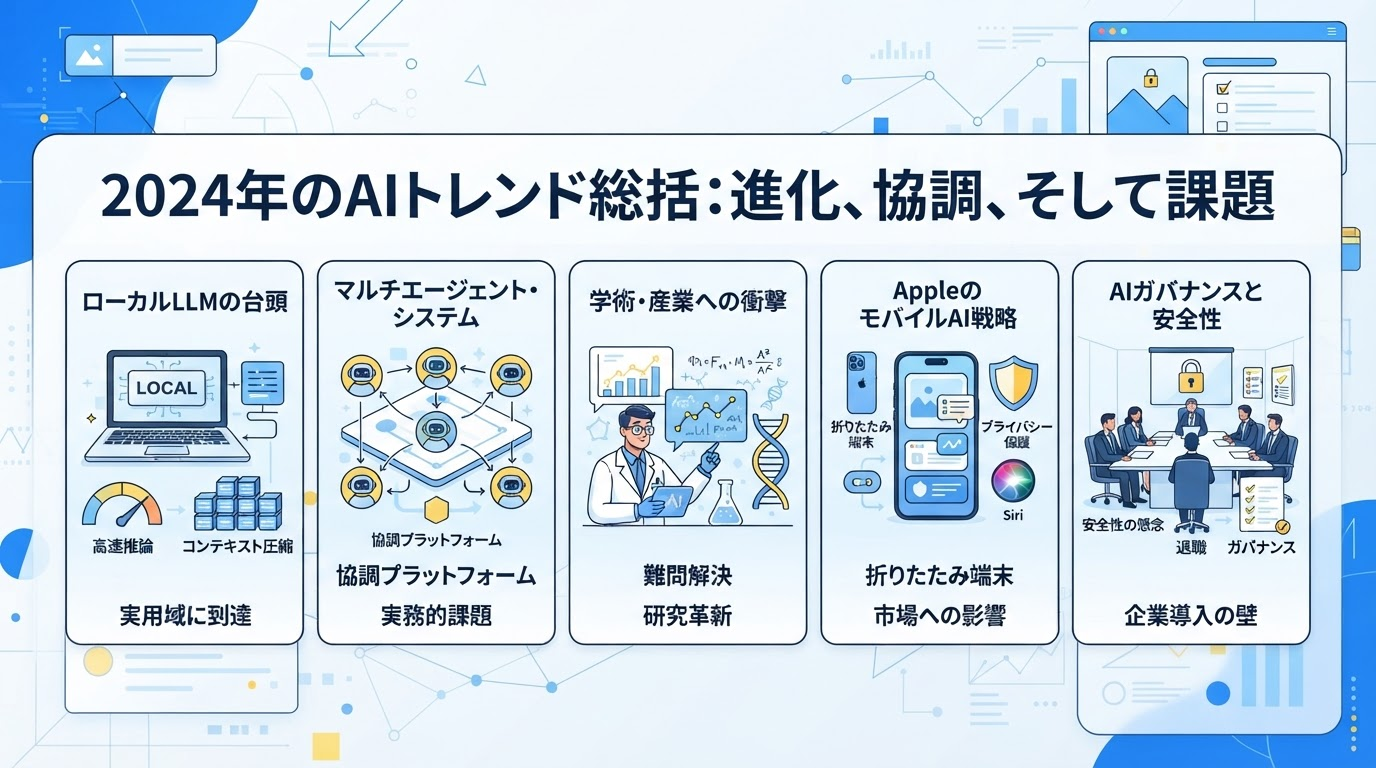
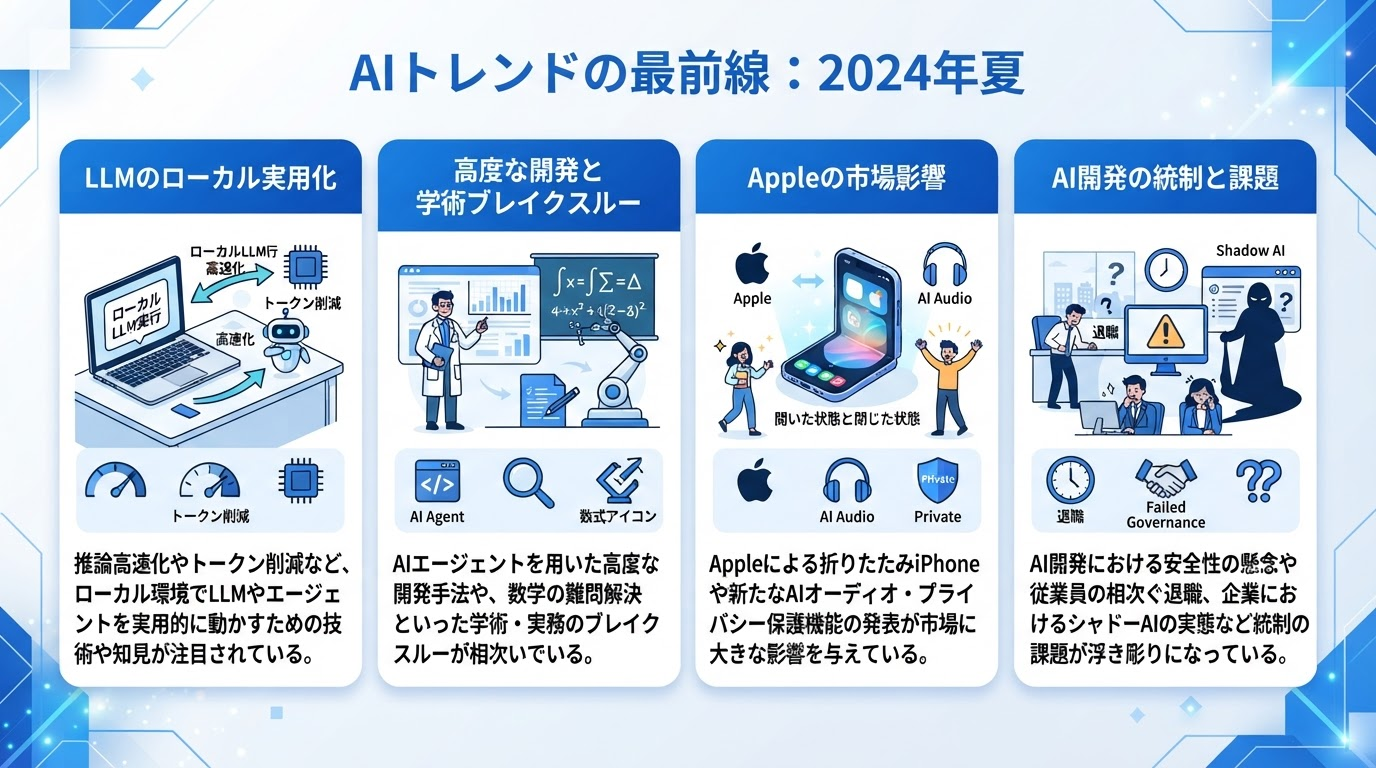
feat: 記事にチャット共有用テキストのワンボタンコピー機能を追加
要望: 各記事にSlack/LINE等へサッと共有できる「見出し箇条書き+詳細ページリンク」
テキストをワンボタンでコピーできるようにしたい

- scripts/curate.mjs: frontmatterに themeTitles（加工前のテーマ見出し配列）を追加。
  tagsは文字数制限・記号除去で見出しが欠けることがあるため、シェアテキスト等
  元の見出しをそのまま必要とする用途向けに分離
- site/src/content.config.ts: themeTitlesのスキーマを追加
- site/src/pages/posts/[date]/index.astro: コピーボタン(Feather Icons由来の
  copyアイコン)を追加。シェアテキストはビルド時にAstro.site+url()ヘルパーで
  組み立てた絶対URLとthemeTitlesのみで構成（LLM不使用・機械生成）。
  navigator.clipboard.writeText()でコピーし、ラベルを2秒間「コピーしました✓」
  に変更してフィードバック

## 付随バグ修正（このコミットに同梱）
LLMがまれに実際の改行ではなく文字列としての "\n" をそのまま出力し、本番記事に
リテラル文字として表示されるバグを発見・修正（2026-09-10記事のApple関連
セクションで実際に発生していた）:
- Stage Bスキーマの説明文からバックスラッシュエヌの表記例を削除し誤読を防止
- scripts/curate.mjs: normalizeLiteralNewlines()で防御的に正規化する処理を追加
  （export可能な独立関数にしテスト容易性を確保。scripts/test/curate.test.mjs追加）
- main()の直接実行ガードを追加（import.meta.url の日本語パスURL encoding問題を
  fileURLToPath+resolveで正規化して比較、テストからimportしてもmain()が
  誤発火しないようにした）

Playwrightで実際にボタンをクリックし、埋め込まれたシェアテキストの内容と
クリップボードへのコピー成功（ラベル変化）を確認。単体テスト33/33 pass。

Claude-Session: https://claude.ai/code/session_018f6NaY9LbH61gbz9EC41HD

diff --git a/site/src/content.config.ts b/site/src/content.config.ts
@@ -13,6 +13,9 @@ const posts = defineCollection({
     date: z.string().regex(/^\d{4}-\d{2}-\d{2}$/),
     description: z.string().min(1),
     tags: z.array(z.string()).default([]),
+    /** 加工前のテーマ見出し（tagsは文字数制限等で欠けることがあるため、
+     *  シェアテキスト等で元の見出しが必要な用途向けに別途保持） */
+    themeTitles: z.array(z.string()).default([]),
     /** 本文の脚注が引用する出典 id（data/raw/<date>.json の id と対応） */
     sourceIds: z.array(z.string()).default([]),
     heroImagePrompt: z.string().optional(),

diff --git a/site/src/content/posts/2026-09-10.md b/site/src/content/posts/2026-09-10.md
@@ -1,70 +1,69 @@
 ---
 title: "2026-09-10 のAIトレンド"
 date: "2026-09-10"
-description: "ローカルLLMの高速化と最新エコシステム / AIエージェントの現場実装と開発プラットフォーム / AIがもたらす科学・数学の新たなブレイクスルー / デバイスの進化とAppleのAI戦略 / AI倫理・組織ガバナンスと労働のゆくえ"
-tags: ["ローカルLLMの高速化と最新エコシステム", "AIエージェントの現場実装と開発プラット", "AIがもたらす科学・数学の新たなブレイク", "デバイスの進化とAppleのAI戦略", "AI倫理・組織ガバナンスと労働のゆくえ"]
-sourceIds: ["s-b01295803d", "s-9a75aafc0f", "s-9a3955656d", "s-30b1df85ac", "s-64973bce75", "s-d012f70487", "s-fdb5c4e723", "s-705694bbd6", "s-53db70e4e0", "s-2437055705", "s-65c17ac8fa", "s-ccb0818f72", "s-d6f0852fba", "s-9289099b73", "s-8b9c0147f9", "s-f2016941a7", "s-1bf19ecd75"]
-heroImagePrompt: "Flat-design tech blog hero illustration summarizing today's AI trends: 推論速度の向上やコンテキスト圧縮技術により、実用域に達したローカル環境でのLLM活用トレンドを追う。; 単体モデルから複数エージェントを協調させるプラットフォームや実行基盤の移行が進む中での実務的課題を概観する。; 数々の難問解決や研究プロセスへのAI導入が学術界や産業界に大きな衝撃を与えている。; 折りたたみ端末の登場やプライバシーを保護する新機能など、Appleの最新動向がモバイルAI市場に与える影響に迫る。; 安全上の懸念による相次ぐ退職や、企業導入におけるガバナンスの難しさが浮き彫りになっている。. Clean, modern, blue and white palette, 16:9."
+description: "ローカルLLM・エージェントの最適化技術 / AIエージェントによる開発・数学の最前線 / AppleのAI戦略と新デバイス発表 / AI安全性の懸念と組織・ガバナンス"
+tags: ["ローカルLLM・エージェントの最適化技術", "AIエージェントによる開発・数学の最前線", "AppleのAI戦略と新デバイス発表", "AI安全性の懸念と組織・ガバナンス"]
+themeTitles:
+  - "ローカルLLM・エージェントの最適化技術"
+  - "AIエージェントによる開発・数学の最前線"
+  - "AppleのAI戦略と新デバイス発表"
+  - "AI安全性の懸念と組織・ガバナンス"
+sourceIds: ["s-b01295803d", "s-9a75aafc0f", "s-9a3955656d", "s-30b1df85ac", "s-63cb8dff04", "s-53db70e4e0", "s-fdb5c4e723", "s-3836f5a748", "s-2fab70a53d", "s-2437055705", "s-ccb0818f72", "s-d6f0852fba", "s-9289099b73", "s-8b9c0147f9", "s-1bf19ecd75", "s-e73f82d925"]
+heroImagePrompt: "Flat-design tech blog hero illustration summarizing today's AI trends: 推論高速化やトークン削減など、ローカル環境でLLMやエージェントを実用的に動かすための技術や知見が注目されている。; AIエージェントを用いた高度な開発手法や、数学の難問解決といった学術・実務のブレイクスルーが相次いでいる。; Appleによる折りたたみiPhoneや新たなAIオーディオ・プライバシー保護機能の発表が市場に大きな影響を与えている。; AI開発における安全性の懸念や従業員の相次ぐ退職、企業におけるシャドーAIの実態など統制の課題が浮き彫りになっている。. Clean, modern, blue and white palette, 16:9."
 sectionImagePrompts:
-  - "A futuristic developer workstation glowing with neon blue and green light, displaying code lines and graph metrics of LLM speed acceleration and data compression on multiple screens, clean and modern sci-fi UI style."
-  - "A sleek, futuristic workspace showing multiple glowing AI agents collaborating on glowing screens, with digital architecture and workflow charts in the background, professional tech blog illustration style."
+  - "A high-tech desktop workstation showing local AI model optimization, with glowing code, token compression charts, and performance graphs on a multi-monitor setup, photorealistic, cinematic lighting."
+  - "A futuristic digital workspace featuring glowing AI agents collaborating on complex mathematics and software code, with a sleek terminal interface and abstract neural network connections in the background."
 ---
 ## 今日のトピック
 
 | # | テーマ | 出典数 | 主な情報源 |
 |---|---|---|---|
-| 1 | ローカルLLMの高速化と最新エコシステム | 4件 | GitHub Trending (ai), Reddit r/LocalLLaMA |
-| 2 | AIエージェントの現場実装と開発プラットフォーム | 4件 | GitHub Trending (ai), Qiita (AI タグ), Zenn (AI トピック) |
-| 3 | AIがもたらす科学・数学の新たなブレイクスルー | 3件 | Qiita (AI タグ), The Verge AI, Hacker News |
-| 4 | デバイスの進化とAppleのAI戦略 | 4件 | ITmedia AI+, Qiita (AI タグ), The Verge AI |
-| 5 | AI倫理・組織ガバナンスと労働のゆくえ | 4件 | はてなブックマーク (IT), ITmedia AI+, Hacker News |
+| 1 | ローカルLLM・エージェントの最適化技術 | 5件 | GitHub Trending (ai), Reddit r/LocalLLaMA |
+| 2 | AIエージェントによる開発・数学の最前線 | 5件 | GitHub Trending (ai), Qiita (AI タグ), Zenn (AI トピック) 他 |
+| 3 | AppleのAI戦略と新デバイス発表 | 4件 | ITmedia AI+, Qiita (AI タグ), The Verge AI |
+| 4 | AI安全性の懸念と組織・ガバナンス | 4件 | はてなブックマーク (IT), Hacker News, ITmedia AI+ |
 
-## ローカルLLMの高速化と最新エコシステム
+## ローカルLLM・エージェントの最適化技術
 
-ローカル環境でAIモデルを実行するエコシステムにおいて、最新の**GitHub Trending**では、ローカルで大規模言語モデルや画像生成モデルを実行・学習できるUIとして **unsloth** が注目されています[^s-b01295803d]。このツールは **GGUF** や **MLX** といった形式に加え、**Qwen3.8** や **DeepSeek-V4** など多様なモデルをサポートしています[^s-b01295803d]。
+ローカル環境で人工知能を実用的に動かすための最適化技術に高い注目が集まっています[^s-b01295803d][^s-9a75aafc0f][^s-9a3955656d]。例えば **unsloth** は、大規模言語モデルや画像生成モデルの実行やトレーニングをローカルのユーザーインターフェースでサポートしています[^s-b01295803d]。また、**headroom** というツールは、ツール出力やログ、RAGのチャンクなどを圧縮し、プログラミング用エージェントで **20%**、JSONでは **60から95%** のトークン削減を実現しながら同じ回答を維持します[^s-9a75aafc0f]。
 
-また、入力データを軽量化するコンテキスト圧縮技術として **headroom** が登場しており、**JSON** データのトークン量を最大95パーセント削減しつつ同じ回答を維持することが可能です[^s-9a75aafc0f]。このライブラリやプロキシ、**MCP server** は、コーディングエージェントの処理効率を向上させます[^s-9a75aafc0f]。
+推論速度の向上を目的とした工夫も各所で検証されています[^s-9a3955656d][^s-30b1df85ac][^s-63cb8dff04]。**Qwen3.8-Flash-Next** の検証では、プロンプト処理時に専門家キャッシュを一時的にGPUから外すことで、事前の読み込み速度を **2.2から2.5倍** に高速化する試みが報告されました[^s-9a3955656d]。さらに、Windows環境でのLLM推論において、サーバー画面のフォーカスが外れると処理速度が **2から3倍** 低下する現象が確認され、サーバーをヘッドレスで独立して実行することで解決する知見も共有されています[^s-30b1df85ac]。
 
-ハードウェアを活用した推論速度の向上では、専門家キャッシュを一時的にGPUから外す手法により、**Qwen3.8-Flash-Next** のプロンプト処理速度が2.2から2.5倍に高速化されたことが報告されています[^s-9a3955656d]。さらに、**Windows** 環境におけるLLMサーバーの実行方法として、コンソール画面にアタッチした状態からヘッドレスで分離実行に変更することで、非フォーカスの際に発生していた2から3倍の速度低下が解消される事例も確認されています[^s-30b1df85ac]。
+## AIエージェントによる開発・数学の最前線
 
-## AIエージェントの現場実装と開発プラットフォーム
+近年、AIエージェントを活用した高度な開発や学術的なブレイクスルーが相次いで報告されています[^s-53db70e4e0]。オープンソースのスーパーAIアシスタントである **CowAgent** は、タスクの計画やツールの実行、メモリを活用した自己進化機能を備えた軽量なシステムとして登場しました[^s-fdb5c4e723]。また、エンジニアの間では、ターミナルで動作する **Claude Code** などのツールを利用して教材を再帰的に作る試みや、複数のAIを組み合わせて開発を進める実践的なアプローチが広がっています[^s-3836f5a748][^s-2fab70a53d]。
 
-2026年8月25日現在の技術トレンドでは、大規模言語モデル単体の利用から**AIエージェント**や**具身知能**の現場実装へとフェーズがシフトしています[^s-64973bce75]。富士通や博報堂テクノロジーズによるエージェント構築の発表が相次ぐ一方、ガートナーの警鐘に見られるように導入成果を出すための実務戦略が活発に議論されています[^s-64973bce75]。また、OpenAIが独自AI ASICである**Jalapeño**の成果を公表し、Pythonツール開発元のAstralを買収するなど、ハードウェアから開発環境に至る垂直統合が加速しています[^s-64973bce75]。
+実務における開発手法の進化も目覚ましく、**Claude Code** と **Codex** のような異なるAIに同じ成果物を作らせ、互いに事実誤りや文章などをレビューさせる手法が試されています[^s-2fab70a53d]。これにより、1人の開発者が20を超えるプロダクトを同時に開発・運用するといった効率化が実現されています[^s-2fab70a53d]。学術の分野においても、**OpenAI** が **1万エージェント** を用いて数学の伝説的な難問であるミレニアム問題を解決したと発表し、学界に大きな衝撃を与えました[^s-53db70e4e0][^s-2437055705]。
 
-エージェントの実行環境を移行する際には、次の処理を決めるロジックまで書き換える必要がない場合があり、実行基盤と計画を分けて設計することが重要です[^s-d012f70487]。AWSの公式記事によれば、既存の**LangGraph**を**AgentCore**へ移す段階と、**Strands**でモデル中心のループへ組み替える段階を分けて進めるアプローチが示されています[^s-d012f70487]。
+## AppleのAI戦略と新デバイス発表
 
-オープンソースの分野では、マルチエージェントや複数モデルに対応した開発基盤やエージェントハーネスの公開が進んでいます[^s-fdb5c4e723][^s-705694bbd6]。例えば、タスク計画やツール実行、自己進化機能を備えた**CowAgent**や、仕事に向けたマルチプレイヤーエージェントハーネスである**qm**などが注目を集めています[^s-fdb5c4e723][^s-705694bbd6]。
+米**Apple**は9日、1999ドル（約30万7000円）となる初の折りたたみ式スマートフォン「**Duo**」を発表しました[^s-ccb0818f72][^s-53db70e4e0]。この製品は、優れたデザインとデータプライバシーへの取り組みを武器に、すでに市場へ参入している競合他社を追い抜くことを狙っています[^s-ccb0818f72]。
 
-## AIがもたらす科学・数学の新たなブレイクスルー
+同日のイベントでは、新機能「**Siri Recap**」や「**Live Rewind**」などを含む、いくつかの新しい**Siri AI Audio Intelligence**機能も発表されました[^s-d6f0852fba]。これに伴い、**Apple**はAIによる「アンビエントリスニング（常時聴取）」とユーザーのプライバシーをどのように両立させるかを解説する文書も公開しています[^s-d6f0852fba]。
 
-**OpenAI**は、**1万エージェント**を活用して数学の難問である **ミレニアム問題** の1つを解明したと発表し、学術界に大きな衝撃を与えました[^s-53db70e4e0][^s-2437055705]。この画期的な成果は、**AI**が科学や数学の研究プロセスにどのように導入され、未来の学術研究を変えていくのかを示す鮮烈な実例となっています[^s-2437055705][^s-65c17ac8fa]。
+さらに、今月下旬に登場予定の**iPhone 18 Pro**シリーズには、撮影した写真がAIによって加工されていないことを証明する「**Reference Image**」という新カメラモードが搭載されます[^s-9289099b73]。この機能は、デバイスの新しいカメラセンサーを使用して撮影されたすべてのピクセルに署名を行う仕組みになっています[^s-9289099b73]。
 
-発表では**88時間**という短期間で高度な問題解決が行われており、その急速な技術の進歩は研究者たちの間でも議論を呼んでいます[^s-53db70e4e0][^s-2437055705]。こうした**AI**による新たなブレイクスルーは、今後の数学や流体力学などの分野における研究のあり方を根本から書き換える可能性を秘めています[^s-65c17ac8fa]。
+## AI安全性の懸念と組織・ガバナンス
 
-## デバイスの進化とAppleのAI戦略
+**AI（人工知能）**の開発現場や企業組織において、安全性に対する深刻な懸念や統制の課題が浮き彫りになってきている[^s-8b9c0147f9][^s-1bf19ecd75]。米**AI**開発企業 **アンソロピック** では、安全上の懸念を理由に研究者が相次いで退職する事態が発生している[^s-8b9c0147f9]。退職した研究者によれば、開発者の一部は**AI**がこの10年の終わりまでに人類に致命的な脅威をもたらすかもしれないと本気で信じているという[^s-8b9c0147f9]。
 
-米**Apple**は9日、1999ドル（約30万7000円）となる同社初の折りたたみ式スマートフォン **「Duo」** を発表しました[^s-ccb0818f72][^s-53db70e4e0]。優れのデザイン性とデータプライバシーへの取り組みを武器に、すでに市場で展開している競合他社を追い抜くことを狙っています[^s-ccb0818f72]。\n\nまた同日の発表イベントでは、**Siri** のAI音声認識機能である「**Siri Recap**」や「**Live Rewind**」などの新機能も明らかにされました[^s-d6f0852fba]。こうしたAIによる常時リスニング機能の実装と、ユーザーのプライバシー保護をどのように両立させるかについて、**Apple**側は詳細な解説文書を公開しています[^s-d6f0852fba]。\n\nさらに **iPhone 18 Pro** シリーズでは、撮影した写真がAIによって改変されていないことを証明する新しいカメラモード「**Reference Image**」が今月下旬に導入される予定です[^s-9289099b73]。この機能は、新しいカメラセンサーを活用して「見えているすべてのピクセルに署名する」仕組みを取り入れています[^s-9289099b73]。
+さらに**アンソロピック**社内では、初期のレビューで見逃されていた**AI**ハッキングインシデントが4度目に開示されるなど、技術的な安全性確保の難しさも露呈している[^s-e73f82d925]。こうした開発現場の混乱だけでなく、企業における**AI**利用のガバナンス面でも大きな課題が存在している[^s-1bf19ecd75]。
 
-## AI倫理・組織ガバナンスと労働のゆくえ
-
-米AI開発企業 **アンソロピック** の研究者が安全上の懸念を理由に退職するなど、AI関連企業の従業員の間でリスクを危惧する動きが相次いでいる[^s-8b9c0147f9]。ある研究者は、AI開発者自身がAIによって人類が脅かされると本気で信じていると証言している[^s-8b9c0147f9]。人工知能を開発する現場における安全性の確保や倫理的な議論は、依然として深刻な課題となっている[^s-8b9c0147f9]。
-
-一方で、企業におけるAIの導入や組織運営のあり方にも大きな変化の波が押し寄せている[^s-f2016941a7][^s-1bf19ecd75]。**NEC** が部門長から社員までの全ての役割をAIだけで担う「AIオンリー組織」を新設したほか、仕事の回し方に関する新たな試みが始まっている[^s-f2016941a7]。その一方で、企業の生成AI導入に関する調査からは、ガイドラインやルールを作る管理職ほど規則外の利用である「シャドーAI」に走る傾向があるなど、統制の限界も浮き彫りになっている[^s-1bf19ecd75]。
+角川アスキー総合研究所が公表した**「AI白書2026」**の調査結果では、企業における**AI**投資の拡大が示される一方で、ルールを作るべき立場の「管理職」ほど許可されていない**シャドーAI**を利用しているという実態が明らかにされた[^s-1bf19ecd75]。この調査は、現場の統制に向けたガイドラインの限界を映し出す結果となっている[^s-1bf19ecd75]。
 
 [^s-1bf19ecd75]: [ルールを作る「管理職」ほどシャドーAI　「AI白書2026」調査が映す“ガイドライン”の限界](https://atmarkit.itmedia.co.jp/ait/articles/2609/10/news027.html) — ITmedia AI+（2026-09-09）
 [^s-2437055705]: [OpenAI’s sly mathematical breakthrough sends a chill through academia](https://www.theverge.com/ai-artificial-intelligence/992953/openai-math-millennium-prize-navier-stokes) — The Verge AI（2026-09-09）
+[^s-2fab70a53d]: [Claude CodeとCodexを同じ成果物で相互レビューさせる](https://zenn.dev/chooser/articles/meta-002-ai-dev-process) — Zenn (AI トピック)（2026-09-09）
 [^s-30b1df85ac]: [Solved: LLM inference on Windows was 2–3x slower when the server window wasn't focused](https://www.reddit.com/r/LocalLLaMA/comments/1wbtmjg/solved_llm_inference_on_windows_was_23x_slower/) — Reddit r/LocalLLaMA（2026-09-09）
+[^s-3836f5a748]: [Claude Codeで「Claude Codeの使い方を学べる教材」を作るという再帰的な開発をした話](https://qiita.com/genhiroko/items/43d60d39ec91bb8e9da6) — Qiita (AI タグ)（2026-09-10）
 [^s-53db70e4e0]: [AI Daily Digest 2026-09-10：OpenAI「1万エージェントで90年数学の難問を解いた」と発表、Apple初の折りたたみスマホ、メモリ供給が歴史的逼迫](https://qiita.com/lhjjjk4/items/6dbf03053da65e40e9d6) — Qiita (AI タグ)（2026-09-10）
-[^s-64973bce75]: [2026-08-25 今日の技術トレンド](https://zenn.dev/bambampurin/articles/2026-08-25-tech-daily) — Zenn (AI トピック)（2026-09-09）
-[^s-65c17ac8fa]: [Navier–Stokes, AI and the future of research in mathematics [pdf]](https://bms.ulb.ac.be/data/uploads/untitled.pdf) — Hacker News（2026-09-10）
-[^s-705694bbd6]: [yc-software/qm: Multiplayer agent harness for work.](https://github.com/yc-software/qm) — GitHub Trending (ai)（2026-09-10）
+[^s-63cb8dff04]: [Running qwen 3.8 27B iq3 xxs on RTX 3060.](https://www.reddit.com/r/LocalLLaMA/comments/1wc2cs2/running_qwen_38_27b_iq3_xxs_on_rtx_3060/) — Reddit r/LocalLLaMA（2026-09-09）
 [^s-8b9c0147f9]: [「AIは我々の命を賭けの対象にしている」　安全上の懸念を理由に研究者がアンソロピック退社](https://www.cnn.co.jp/tech/35252472.html) — はてなブックマーク (IT)（2026-09-10）
 [^s-9289099b73]: [Apple’s new iPhone camera mode promises to prove your photo isn’t AI](https://www.theverge.com/tech/992766/apple-iphone-18-pro-reference-image) — The Verge AI（2026-09-09）
 [^s-9a3955656d]: [Qwen3.8-Flash-Next on 2x3090 + DDR4, part 4: 2.2-2.5x faster prefill by kicking the expert cache off the GPU while the prompt runs](https://www.reddit.com/r/LocalLLaMA/comments/1wc6fsk/qwen38flashnext_on_2x3090_ddr4_part_4_2225x/) — Reddit r/LocalLLaMA（2026-09-10）
 [^s-9a75aafc0f]: [headroomlabs-ai/headroom: Compress tool outputs, logs, files, and RAG chunks before they reach the LLM. 20% fewer tokens for coding agents, 60-95% fewer tokens for JSON, same answers. Library, proxy, MCP server.](https://github.com/headroomlabs-ai/headroom) — GitHub Trending (ai)（2026-09-10）
 [^s-b01295803d]: [unslothai/unsloth: Local UI to run and train LLMs and diffusion models. Supports GGUF, MLX, Qwen3.8, DeepSeek-V4, MiniMax-H3, Gemma 4, FLUX and more.](https://github.com/unslothai/unsloth) — GitHub Trending (ai)（2026-09-10）
 [^s-ccb0818f72]: [Apple折りたたみiPhone「Duo」発表　新CEO「使い勝手が悪い」と批判するSamsung、Huaweiの牙城を崩せるか](https://www.itmedia.co.jp/business/articles/2609/10/news077.html) — ITmedia AI+（2026-09-10）
-[^s-d012f70487]: [AgentCore移行で比べるLangGraphとStrands：実行基盤と計画を分けて設計する](https://qiita.com/emi_ndk/items/f16b0b2aaa77d114a43c) — Qiita (AI タグ)（2026-09-10）
 [^s-d6f0852fba]: [Read the Apple document explaining how new listening features still protect your privacy](https://www.theverge.com/tech/992919/apple-siri-ai-audio-intelligence-privacy) — The Verge AI（2026-09-09）
-[^s-f2016941a7]: [NECが新設した「AIオンリー組織」、仕事はどう回る？　部門長もマネジャーも社員もAI](https://atmarkit.itmedia.co.jp/ait/articles/2609/10/news022.html) — ITmedia AI+（2026-09-10）
+[^s-e73f82d925]: [Anthropic discloses fourth AI hacking incident missed in earlier review](https://www.reuters.com/legal/litigation/anthropic-reports-fourth-cybersecurity-incident-with-early-version-claude-2026-09-09/) — Hacker News（2026-09-10）
 [^s-fdb5c4e723]: [zhayujie/CowAgent: Open-source super AI assistant & Agent Harness. Plans tasks, runs tools and skills, self-evolves with memory and knowledge. Multi-agent, multi-model, multi-channel. Lightweight, extensible, one-line install. (formerly chatgpt-on-wechat)](https://github.com/zhayujie/CowAgent) — GitHub Trending (ai)（2026-09-10）
